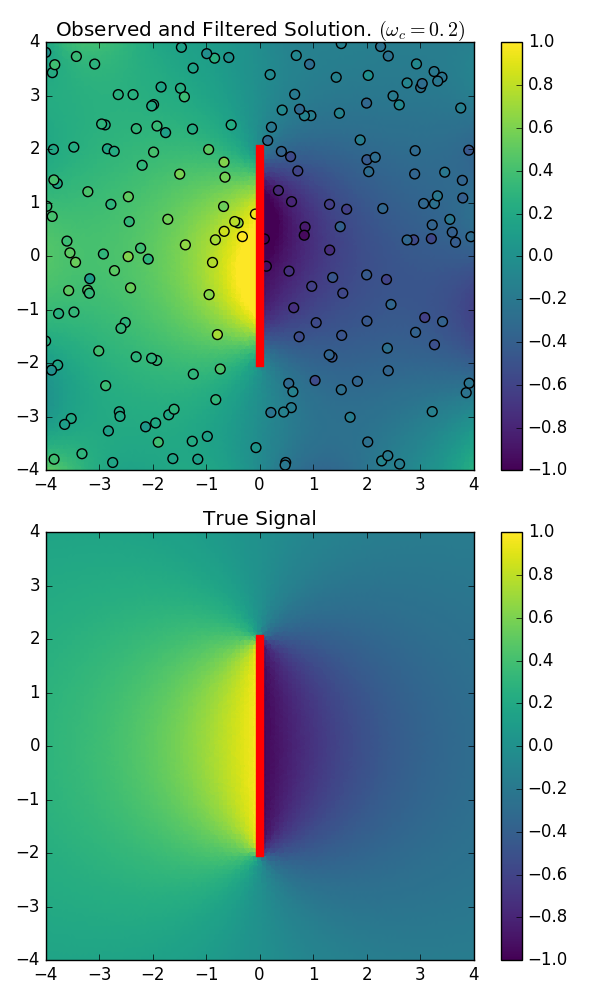
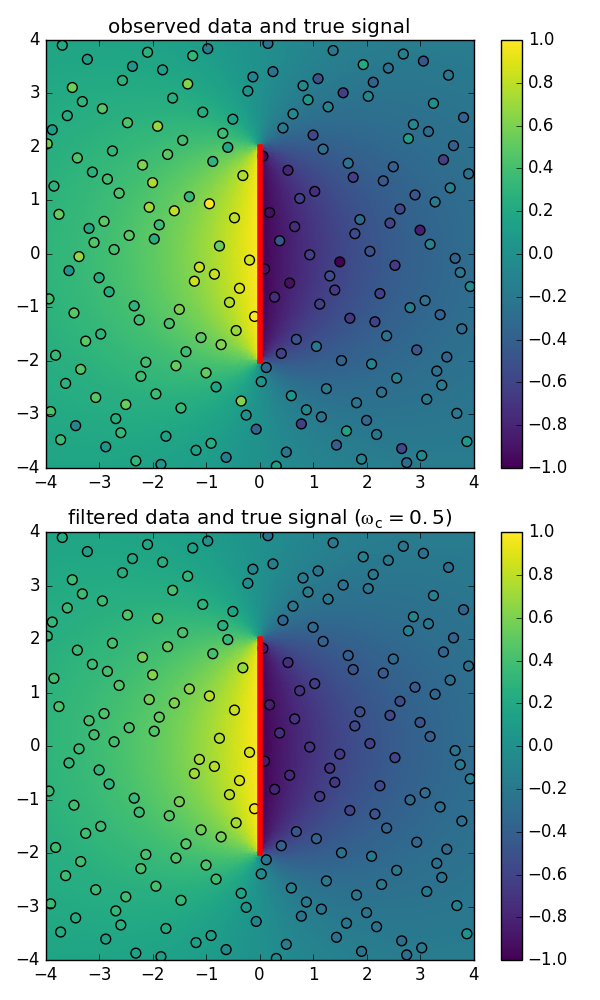
added more demos to docs

diff --git a/docs/scripts/filter.c.py b/docs/scripts/filter.c.py
@@ -1,10 +1,11 @@
 ''' 
-This script demonstrates smoothing and interpolating two-dimensional 
-data when there is a known discontinuity in the underlying signal.
+This script demonstrates smoothing 2-d data when there is a known 
+discontinuity in the underlying signal.
 '''
 import numpy as np
 import matplotlib.pyplot as plt
 from rbf.filter import filter
+import rbf.halton
 np.random.seed(1)
 
 def signal(x):
@@ -18,56 +19,36 @@ def signal(x):
 # define the known discontinuity
 bnd_vert = np.array([[0.0, 2.0],[0.0,-2.0]])
 bnd_smp = np.array([[0,1]])                     
-
-N = 200 # number of observations
-pnts_obs = np.random.uniform(-4,4,(N,2))
-# create observations with added white noise
-u_obs = signal(pnts_obs) + np.random.normal(0.0,0.1,N)
-sigma_obs = 0.1*np.ones(N)
-
-# create the interpolation points
-vals = np.linspace(-4,4,100) 
-pnts_itp = np.reshape(np.meshgrid(vals,vals),(2,10000)).T
-
-# rbf.filter.filter can be used for interpolation by treating the 
-# interpolation points as observation points with infinite 
-# uncertainty. This is done by concatenating pnts_obs and pnts_itp and 
-# then appending observations with infinite uncertainty to u_obs
-pnts = np.concatenate((pnts_obs,pnts_itp),axis=0)
-
-u_itp = np.empty(10000) + np.nan
-sigma_itp = np.empty(10000) + np.inf
-
-u = np.concatenate((u_obs,u_itp))
-sigma = np.concatenate((sigma_obs,sigma_itp))
-
-# cutoff frequency. Because we are interpolating data, there will not 
-# be a homogeneous characteristic wavelength for the solution. 
-# Interpolation points which do not have nearby observations will tend 
-# to have a longer wavelength.  The cutoff frequency should be 
-# interpretted as a rough estimate of the highest frequency allowed in 
-# the final solution.
-cutoff = 0.2
-
-soln = filter(pnts,u,sigma=sigma,cutoff=cutoff,vert=bnd_vert,smp=bnd_smp)
-
-# plot the results
+# create synthetic data
+pnts_obs = 8*(rbf.halton.halton(200,2,start=1) - 0.5)
+sigma_obs = 0.2*np.ones(200)
+u_obs = signal(pnts_obs) + np.random.normal(0.0,sigma_obs)
+# find the filtered solution
+cutoff = 0.5
+soln,_ = filter(pnts_obs,u_obs,sigma=sigma_obs,cutoff=cutoff,
+                vert=bnd_vert,smp=bnd_smp,check_all_edges=True)
+# plot the results and true signal
+vals = np.linspace(-4,4,200) 
+grid = np.reshape(np.meshgrid(vals,vals),(2,200**2)).T
 fig,axs = plt.subplots(2,1,figsize=(6,10))
-p = axs[0].tripcolor(pnts[:,0],pnts[:,1],soln[0],vmin=-1.0,vmax=1.0,cmap='viridis')
-axs[0].scatter(pnts_obs[:,0],pnts_obs[:,1],c=u_obs,s=50,vmin=-1.0,vmax=1.0,cmap='viridis')
-axs[0].plot(bnd_vert[:,0],bnd_vert[:,1],'r-',lw=6)
-axs[0].set_xlim((-4,4))
-axs[0].set_ylim((-4,4))
+axs[0].scatter(pnts_obs[:,0],pnts_obs[:,1],c=u_obs,s=50,
+               vmin=-1.0,vmax=1.0,cmap='viridis',zorder=1)
+p = axs[0].tripcolor(grid[:,0],grid[:,1],signal(grid),
+                     vmin=-1.0,vmax=1.0,cmap='viridis',zorder=0)
+axs[0].plot(bnd_vert[:,0],bnd_vert[:,1],'r-',lw=4)
+axs[0].set_xlim((-4,4));axs[0].set_ylim((-4,4))
 axs[0].set_aspect('equal')
-axs[0].set_title(u'Observed and Filtered Solution. $(\omega_c=%s)$' % cutoff)
+axs[0].set_title(u'observed data and true signal')
 plt.colorbar(p,ax=axs[0])
-p = axs[1].tripcolor(pnts[:,0],pnts[:,1],signal(pnts),vmin=-1.0,vmax=1.0,cmap='viridis')
-axs[1].plot(bnd_vert[:,0],bnd_vert[:,1],'r-',lw=6)
-axs[1].set_xlim((-4,4))
-axs[1].set_ylim((-4,4))
-axs[1].set_title('True Signal')
+axs[1].scatter(pnts_obs[:,0],pnts_obs[:,1],c=soln,s=50,
+               vmin=-1.0,vmax=1.0,cmap='viridis')
+p = axs[1].tripcolor(grid[:,0],grid[:,1],signal(grid),
+                     vmin=-1.0,vmax=1.0,cmap='viridis',zorder=0)
+axs[1].plot(bnd_vert[:,0],bnd_vert[:,1],'r-',lw=4)
+axs[1].set_xlim((-4,4));axs[1].set_ylim((-4,4))
 axs[1].set_aspect('equal')
+axs[1].set_title(r'filtered data and true signal ($\mathregular{\omega_c=%s}$)' % cutoff)
 plt.colorbar(p,ax=axs[1])
-#plt.savefig('../figures/filter.c.png')
 plt.tight_layout()
+plt.savefig('../figures/filter.c.png')
 plt.show()

diff --git a/docs/scripts/filter.a.py b/docs/scripts/filter.a.py
@@ -8,25 +8,28 @@ user specified cutoff frequency.  In this example the cutoff frequency
 is set to 40.
 '''
 import numpy as np
-from scipy.misc import lena
+from scipy.misc import face
 from scipy.interpolate import NearestNDInterpolator
 import matplotlib.pyplot as plt
 from rbf.filter import filter
 np.random.seed(4)
 
-x = np.linspace(0.0,1.0,512)
-y = np.linspace(1.0,0.0,512)
+x = np.linspace(0.0,1.0,768)
+y = np.linspace(1.0,0.0,768)
 x,y = np.meshgrid(x,y)
 points = np.array([x.flatten(),y.flatten()]).T
-values = lena().flatten().astype(float)
-values /= 255.0 # normalize so that the max is 1.0
+values = np.linalg.norm(face(),axis=2)[:,256:].flatten()
+#values = lena().flatten().astype(float)
+values /= 441.7 # normalize so that the max is 1.0
 signal = NearestNDInterpolator(points,values)
 
 # interpolate Lena onto new observation points and add noise
-points_obs = np.random.normal(0.5,0.25,(100000,2))
-u_obs = signal(points_obs) + np.random.normal(0.0,0.25,100000)
+points_obs = np.random.normal(0.5,0.3,(100000,2))
+#points_obs = rbf.halton.halton(50000,2)  
+u_obs = signal(points_obs) + np.random.normal(0.0,0.2,100000)
 # find filtered solution
-soln,sigma = filter(points_obs,u_obs,cutoff=40,n=20)
+cutoff = 60.0
+soln,_ = filter(points_obs,u_obs,cutoff=cutoff,n=20,samples=0)
 
 # plot the observed and filtered results
 fig,ax = plt.subplots(2,1,figsize=(6,10))
@@ -34,12 +37,12 @@ ax[0].set_aspect('equal')
 ax[0].set_axis_bgcolor('blue')
 ax[0].set_xlim((0,1))
 ax[0].set_ylim((0,1))
-ax[0].set_title('Noisy Data')
+ax[0].set_title('noisy data')
 ax[1].set_aspect('equal')
 ax[1].set_axis_bgcolor('blue')
 ax[1].set_xlim((0,1))
 ax[1].set_ylim((0,1))
-ax[1].set_title(u'Filtered Solution $\mathregular{(\omega_c = 40)}$')
+ax[1].set_title(u'filtered solution $\mathregular{(\omega_c = %s)}$' % cutoff)
 p1 = ax[0].scatter(points_obs[:,0],points_obs[:,1],s=4,c=u_obs,
                    edgecolor='none',cmap='Greys_r',vmin=-0.1,vmax=1.1)
 plt.colorbar(p1,ax=ax[0])
